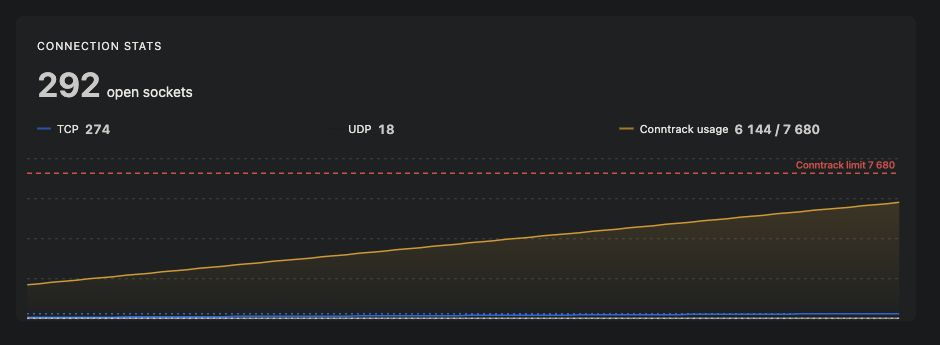
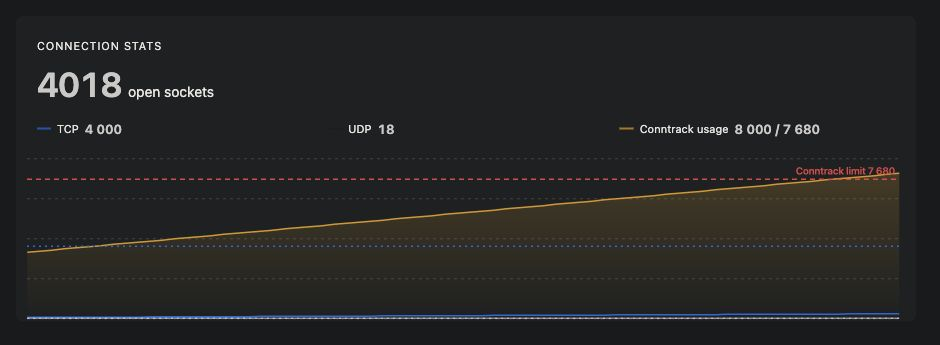
fix: show conntrack boundary only when visible data reaches capacity

diff --git a/frontend/src/test/connections-card-limit.test.tsx b/frontend/src/test/connections-card-limit.test.tsx
@@ -20,7 +20,7 @@ const base = {
 };
 
 describe('ConnectionsCard conntrack limit', () => {
-  it('labels conntrack separately from sockets and includes its limit in the chart range', () => {
+  it('keeps the relative scale and hides the limit until the data reaches it', () => {
     renderWithProviders(
       <ConnectionsCard
         {...base}
@@ -36,10 +36,8 @@ describe('ConnectionsCard conntrack limit', () => {
     expect(props.data).toEqual(base.tcp);
     expect(props.data2).toEqual(base.udp);
     expect(props.data3).toEqual(base.conntrack);
-    expect(props.valueMax).toBeGreaterThan(7680);
-    expect(props.referenceLines).toContainEqual(
-      expect.objectContaining({ y: 7680, label: 'Conntrack limit 7,680' }),
-    );
+    expect(props.valueMax).toBeNull();
+    expect(props.referenceLines).toHaveLength(2);
   });
 
   it('hides conntrack and its boundary when the host does not expose a limit', () => {
@@ -54,17 +52,36 @@ describe('ConnectionsCard conntrack limit', () => {
     expect(props.referenceLines).toHaveLength(2);
   });
 
-  it('keeps counts above a lowered limit visible', () => {
+  it.each([7680, 8000])('shows the limit when a visible value reaches %i', (count) => {
     renderWithProviders(
       <ConnectionsCard
         {...base}
-        conntrack={[8000]}
-        status={new Status({ conntrackCount: 8000, conntrackMax: 7680 })}
+        conntrack={[count, 6000]}
+        status={new Status({ conntrackCount: 6000, conntrackMax: 7680 })}
       />,
     );
     const props = sparkline.mock.calls.at(-1)?.[0] as unknown as ComponentProps<
       typeof import('@/components/viz').Sparkline
     >;
-    expect(props.valueMax).toBeGreaterThan(8000);
+    expect(props.valueMax).toBeNull();
+    expect(props.referenceLines).toContainEqual(
+      expect.objectContaining({ y: 7680, label: 'Conntrack limit 7,680' }),
+    );
+  });
+
+  it('hides the limit after the reached value leaves the visible window', () => {
+    renderWithProviders(
+      <ConnectionsCard
+        {...base}
+        tcp={Array(121).fill(274)}
+        conntrack={[8000, ...Array(120).fill(6000)]}
+        status={new Status({ conntrackCount: 6000, conntrackMax: 7680 })}
+      />,
+    );
+    const props = sparkline.mock.calls.at(-1)?.[0] as unknown as ComponentProps<
+      typeof import('@/components/viz').Sparkline
+    >;
+    expect(props.valueMax).toBeNull();
+    expect(props.referenceLines).toHaveLength(2);
   });
 });

diff --git a/frontend/src/pages/index/ConnectionsCard.tsx b/frontend/src/pages/index/ConnectionsCard.tsx
@@ -5,6 +5,8 @@ import { Card, theme } from 'antd';
 import { Sparkline } from '@/components/viz';
 import type { Status } from '@/models/status';
 
+const MAX_POINTS = 120;
+
 interface ConnectionsCardProps {
   status: Status;
   tcp: number[];
@@ -28,12 +30,17 @@ export default function ConnectionsCard({
   const udpColor = token.colorTextTertiary;
   const conntrackColor = token.colorWarning;
   const hasConntrack = status.conntrackMax > 0;
+  const visibleConntrack = conntrack.slice(
+    Math.max(0, conntrack.length - Math.min(tcp.length, MAX_POINTS)),
+  );
+  const showConntrackLimit =
+    hasConntrack && visibleConntrack.some((count) => count >= status.conntrackMax);
 
   const referenceLines = useMemo(
     () => [
       { y: status.udpCount, color: udpColor, dash: '2 4' },
       { y: status.tcpCount, color: accent, dash: '2 4' },
-      ...(hasConntrack
+      ...(showConntrackLimit
         ? [
             {
               y: status.conntrackMax,
@@ -48,7 +55,7 @@ export default function ConnectionsCard({
       status.tcpCount,
       status.udpCount,
       status.conntrackMax,
-      hasConntrack,
+      showConntrackLimit,
       accent,
       udpColor,
       token.colorError,
@@ -95,13 +102,12 @@ export default function ConnectionsCard({
           data3={hasConntrack ? conntrack : undefined}
           labels={labels}
           height={isMobile ? 120 : 170}
+          maxPoints={MAX_POINTS}
           strokeWidth={1.5}
           fillOpacity={0.24}
           showTooltip
           showLegend={false}
-          valueMax={
-            hasConntrack ? Math.max(status.conntrackMax, ...tcp, ...udp, ...conntrack) * 1.1 : null
-          }
+          valueMax={null}
           stroke={accent}
           stroke2={udpColor}
           stroke3={conntrackColor}
